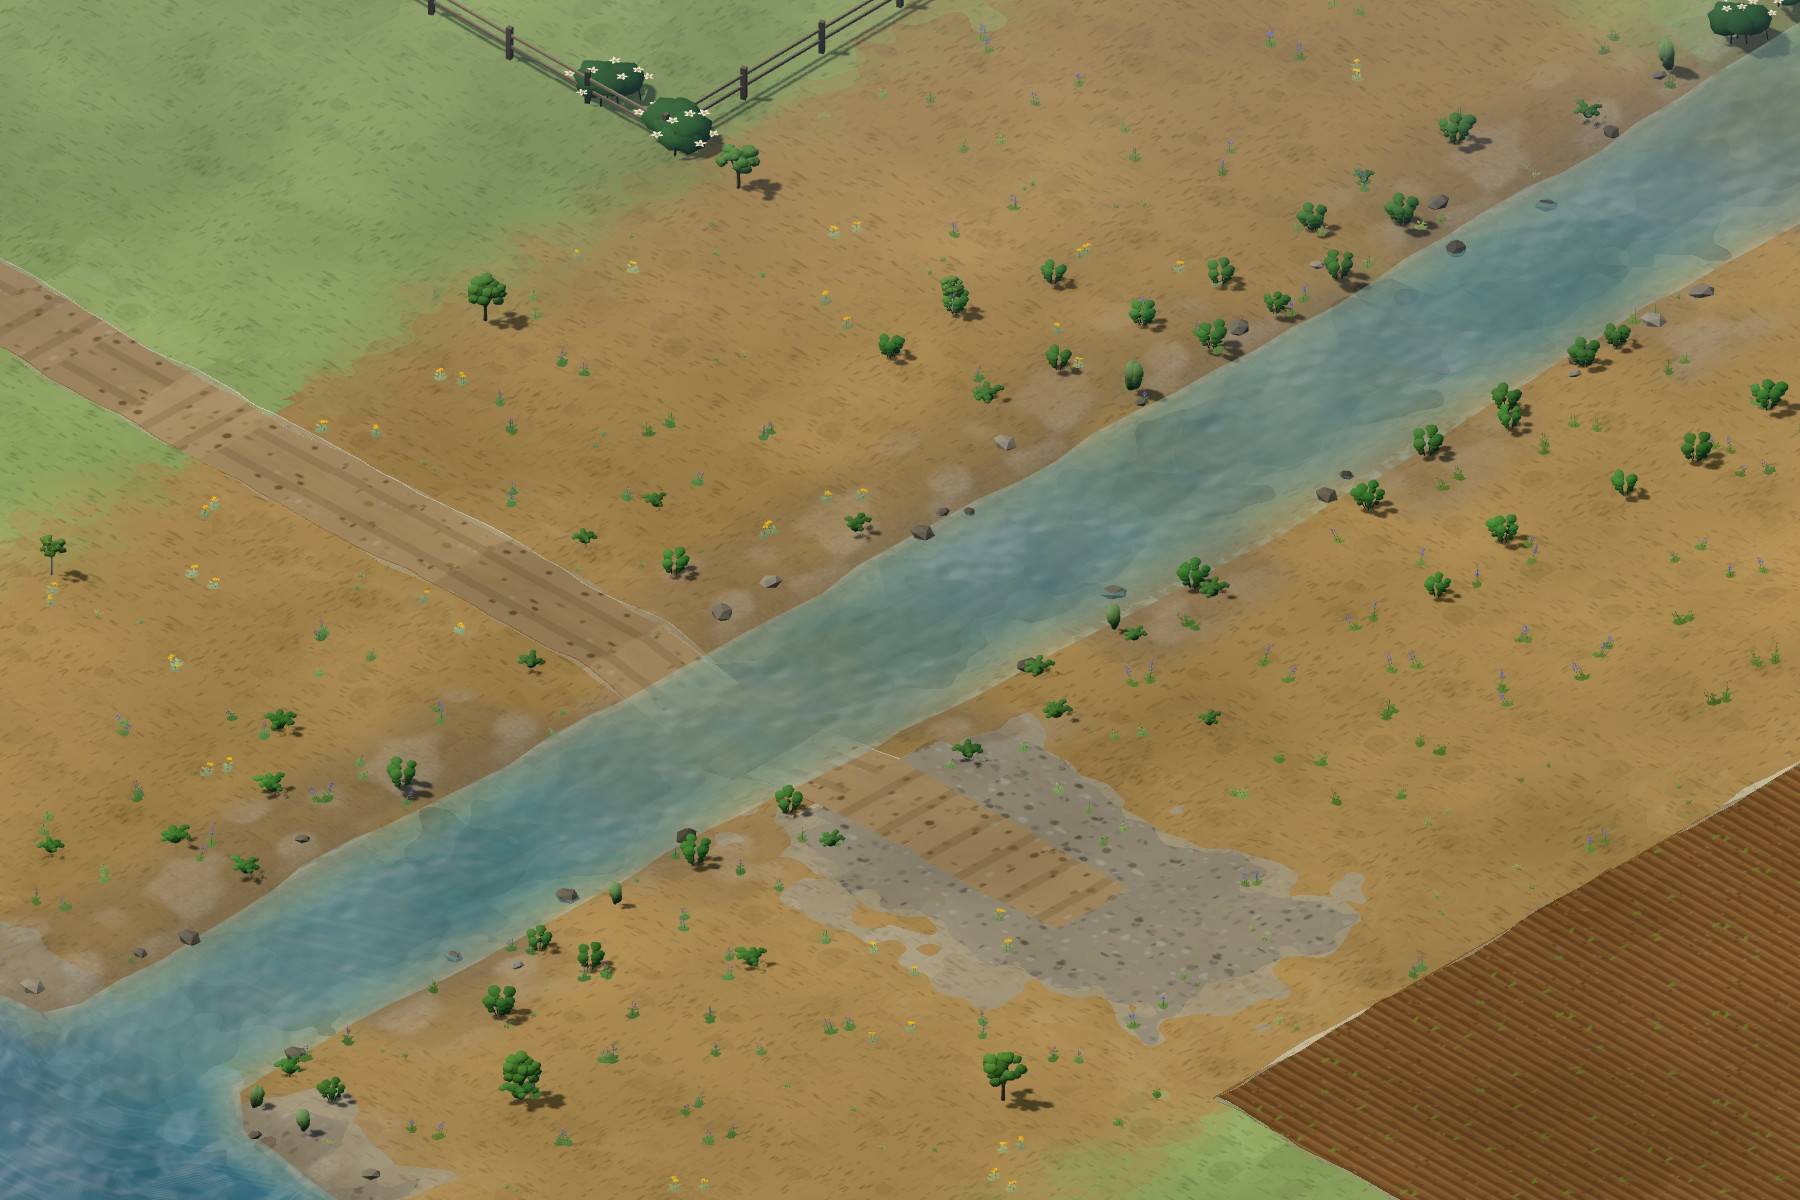
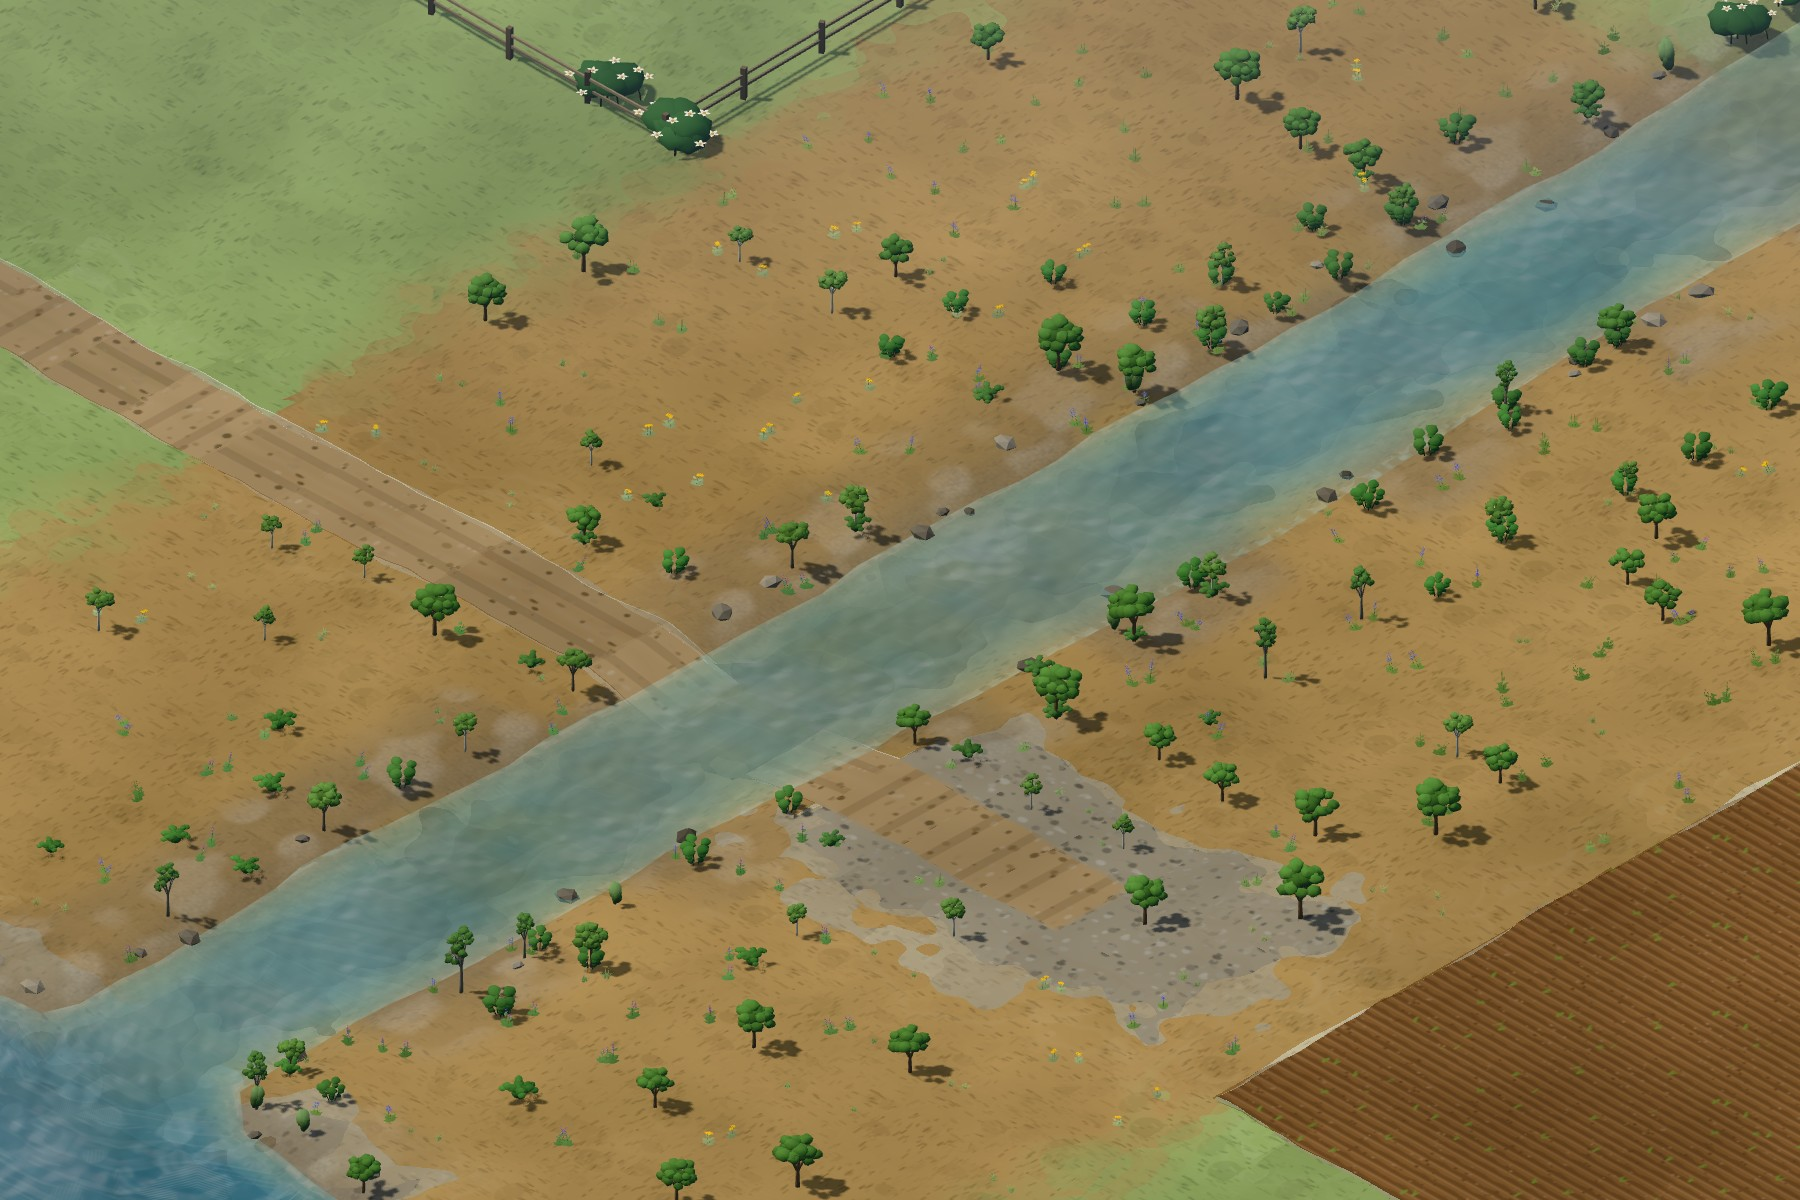
Website polish: readable type, creek before/after slider, fuller restored creek
- Raise the smallest text (labels, captions, footer) to a readable floor
- Slow drift on the hero image, sticky ecology heading, fade on image swaps
  (all off for prefers-reduced-motion)
- Replace the three-step creek picker with a before/after drag slider that
  also works from the keyboard; "before" loads eagerly so the slider never
  shows "after" on both sides
- Re-stage the creek sequence with a band of pioneer trees along both banks
  (82 trees instead of 8) from the same save; add --creek to
  capture-site-content.mjs to redo only those captures

diff --git a/website/index.html b/website/index.html
@@ -32,8 +32,8 @@
   <link rel="preconnect" href="https://fonts.googleapis.com">
   <link rel="preconnect" href="https://fonts.gstatic.com" crossorigin>
   <link href="https://fonts.googleapis.com/css2?family=Fraunces:opsz,wght@9..144,400;9..144,500;9..144,600&family=Nunito:wght@400;600;700;800&display=swap" rel="stylesheet">
-  <link rel="stylesheet" href="site.css?v=ecology-20261017c">
-  <script src="site.js?v=ecology-20261017c" defer></script>
+  <link rel="stylesheet" href="site.css?v=slider-20261017d">
+  <script src="site.js?v=slider-20261017d" defer></script>
 </head>
 <body class="home">
   <a class="skip" href="#hero-title">Skip to content</a>
@@ -69,13 +69,15 @@
       <div class="section-head"><div><p class="eyebrow">An example from the Pacific Northwest</p><h2 id="restoration-title">Reopening a salmon creek.</h2></div><p>One save, two game years apart. Pull out one<br> culvert and the whole creek changes.</p></div>
       <div class="restoration-layout">
         <figure class="sequence-figure">
-          <div class="sequence-view"><img id="sequence-image" src="review-media/creek-before.jpg" alt="The Pacific Northwest creek before intervention, with a culvert at the road crossing and exposed banks." width="1800" height="1200" loading="lazy" decoding="async"><span class="image-tag" id="sequence-label">Before · May, Year 1</span></div>
-          <div class="sequence-picker" role="group" aria-label="View the creek restoration sequence">
-            <button type="button" class="sequence-choice" aria-pressed="true" data-image="review-media/creek-before.jpg" data-alt="The Pacific Northwest creek before intervention, with a culvert at the road crossing and exposed banks." data-label="Before · May, Year 1" data-caption="The culvert blocks fish passage into the upper creek. The nearby banks have limited native vegetation."><img src="review-media/creek-before.jpg" alt="" width="1800" height="1200" loading="lazy"><span>01 / Before</span></button>
-            <button type="button" class="sequence-choice" aria-pressed="false" data-image="review-media/creek-planted.jpg" data-alt="The same creek after the culvert was removed and native shrubs, pioneer trees and meadow plants were planted along its banks." data-label="Restoration · The same day" data-caption="The culvert is removed. Invasives are pulled, soil is loosened and mulched, and native shrubs, pioneer trees and meadow plants are planted."><img src="review-media/creek-planted.jpg" alt="" width="1800" height="1200" loading="lazy"><span>02 / Restoration</span></button>
-            <button type="button" class="sequence-choice" aria-pressed="false" data-image="review-media/creek-later.jpg" data-alt="The same creek two game years later, with the planted streamside vegetation developing around the open crossing." data-label="Later · May, Year 3" data-caption="Two game years later, the planted vegetation has developed. The creek remains open to fish passage. No extra planting was done between these captures."><img src="review-media/creek-later.jpg" alt="" width="1800" height="1200" loading="lazy"><span>03 / Two years later</span></button>
+          <div class="compare" style="--pos:50%">
+            <img src="review-media/creek-later.jpg" alt="The same creek two game years later, with the planted streamside vegetation grown in around the open crossing." width="1800" height="1200" loading="lazy" decoding="async">
+            <img class="compare-before" src="review-media/creek-before.jpg" alt="The Pacific Northwest creek before restoration, with a culvert at the road crossing and bare banks." width="1800" height="1200" decoding="async">
+            <span class="image-tag compare-tag before">Before<span class="tag-date"> · May, Year 1</span></span>
+            <span class="image-tag compare-tag after">Two years later<span class="tag-date"> · May, Year 3</span></span>
+            <span class="compare-handle" aria-hidden="true"><span><svg viewBox="0 0 24 24" width="22" height="22"><path d="M9 6 3 12l6 6M15 6l6 6-6 6" fill="none" stroke="currentColor" stroke-width="2.4" stroke-linecap="round" stroke-linejoin="round"/></svg></span></span>
+            <input class="compare-range" type="range" min="0" max="100" step="1" value="50" aria-label="Compare the creek before restoration and two years later">
           </div>
-          <p class="sequence-description" id="sequence-description" aria-live="polite">The culvert blocks fish passage into the upper creek. The nearby banks have limited native vegetation.</p>
+          <p class="sequence-description">Drag to compare. Same save, same camera: the culvert is out and the shrubs and pioneer trees planted that May have grown in. Nothing else was planted in between.</p>
         </figure>
         <ol class="restoration-steps"><li><span class="step-index">01</span><div><h3>Find what's in the way.</h3><p>A culvert under the farm road stops salmon from reaching the upper creek. With no shade on the banks, the water isn't good enough for them to spawn.</p></div></li><li><span class="step-index">02</span><div><h3>Open it up and plant the banks.</h3><p>Tear out the culvert, clear the Himalayan blackberry, and plant native shrubs and trees along the water. Overlays show you fish passage, moisture and habitat as you work.</p></div></li><li><span class="step-index">03</span><div><h3>Give it time.</h3><p>The plantings grow in and shade the creek. Open passage alone won't bring coho back. They need the clean, shaded water too.</p></div></li></ol>
       </div>

diff --git a/website/site.js b/website/site.js
@@ -1,5 +1,8 @@
 // The static homepage switches fresh game captures and their captions.
 // It never imports the simulation or touches player saves.
+// A short fade when a picture changes, skipped for reduced motion.
+const calm = matchMedia('(prefers-reduced-motion: reduce)');
+const fadeIn = image => { if (!calm.matches && image.animate) image.animate([{ opacity: 0.35 }, { opacity: 1 }], { duration: 450, easing: 'ease' }); };
 const choices = [...document.querySelectorAll('.map-choice')];
 const fields = {
   name: document.querySelector('#map-name'),
@@ -14,6 +17,7 @@ for (const choice of choices) {
     for (const button of choices) button.setAttribute('aria-pressed', String(button === choice));
     for (const [key, element] of Object.entries(fields)) element.textContent = choice.dataset[key];
     mapImage.src = choice.dataset.image;
+    fadeIn(mapImage);
     mapImage.alt = choice.dataset.alt;
     mapImage.parentElement.dataset.momentLayout = choice.dataset.momentLayout;
     document.querySelector('#map-image-label').textContent = choice.dataset.name;
@@ -22,26 +26,50 @@ for (const choice of choices) {
     document.querySelector('.map-panel').dataset.landscape = choice.dataset.map;
   });
 }
-// Fetch the other landscape and creek images once the explorer nears the
+// Fetch the other landscape images once the explorer nears the
 // viewport (or on hover), so switching never shows an empty panel.
 const preloaded = new Set();
 const preload = src => { if (!preloaded.has(src)) { preloaded.add(src); new Image().src = src; } };
-const preloadAll = () => [...choices, ...document.querySelectorAll('.sequence-choice')].forEach(c => preload(c.dataset.image));
+const preloadAll = () => choices.forEach(c => preload(c.dataset.image));
 for (const choice of choices) choice.addEventListener('pointerenter', () => preload(choice.dataset.image));
 if ('IntersectionObserver' in window) {
   const observer = new IntersectionObserver(entries => {
     if (entries.some(entry => entry.isIntersecting)) { observer.disconnect(); preloadAll(); }
   }, { rootMargin: '600px 0px' });
-  for (const section of document.querySelectorAll('.restoration, .explorer')) observer.observe(section);
+  observer.observe(document.querySelector('.explorer'));
 } else preloadAll();
-const sequenceChoices = [...document.querySelectorAll('.sequence-choice')];
-const sequenceImage = document.querySelector('#sequence-image');
-for (const choice of sequenceChoices) {
-  choice.addEventListener('click', () => {
-    for (const button of sequenceChoices) button.setAttribute('aria-pressed', String(button === choice));
-    sequenceImage.src = choice.dataset.image;
-    sequenceImage.alt = choice.dataset.alt;
-    document.querySelector('#sequence-label').textContent = choice.dataset.label;
-    document.querySelector('#sequence-description').textContent = choice.dataset.caption;
-  });
+// Before/after creek slider. Pointer drag anywhere on the picture; the
+// range input underneath keeps it usable from the keyboard.
+const compare = document.querySelector('.compare');
+if (compare) {
+  const range = compare.querySelector('.compare-range');
+  const before = compare.querySelector('.compare-tag.before'), after = compare.querySelector('.compare-tag.after');
+  const set = value => {
+    const pos = Math.max(0, Math.min(100, value));
+    compare.style.setProperty('--pos', pos + '%'); range.value = Math.round(pos);
+    // Hide a label once its picture is mostly covered.
+    before.style.opacity = pos < 28 ? 0 : 1; after.style.opacity = pos > 72 ? 0 : 1;
+  };
+  const fromPointer = event => { const box = compare.getBoundingClientRect(); set((event.clientX - box.left) / box.width * 100); };
+  let dragging = false;
+  compare.addEventListener('pointerdown', event => { dragging = true; compare.setPointerCapture(event.pointerId); fromPointer(event); });
+  compare.addEventListener('pointermove', event => { if (dragging) fromPointer(event); });
+  for (const type of ['pointerup', 'pointercancel']) compare.addEventListener(type, () => { dragging = false; });
+  range.addEventListener('input', () => set(Number(range.value)));
+  // Once, when it first comes into view, sweep across to show it can be dragged.
+  if (!calm.matches && 'IntersectionObserver' in window) {
+    const hint = new IntersectionObserver(entries => {
+      if (!entries.some(entry => entry.intersectionRatio > 0.6)) return;
+      hint.disconnect();
+      const start = performance.now();
+      const step = now => {
+        if (dragging) return;
+        const t = Math.min(1, (now - start) / 1800);
+        set(50 + Math.sin(t * Math.PI * 2) * 30 * (1 - t));
+        if (t < 1) requestAnimationFrame(step);
+      };
+      requestAnimationFrame(step);
+    }, { threshold: 0.6 });
+    hint.observe(compare);
+  }
 }

diff --git a/website/site.css b/website/site.css
@@ -244,3 +244,77 @@
 @supports not ((backdrop-filter: blur(1px)) or (-webkit-backdrop-filter: blur(1px))) { .moment-bubble { background: #173e32f5; } }
 
 .capture-context{display:block;margin-top:10px;color:#c1cfb8;font-size:11px;line-height:1.8}
+
+/* Readability and motion polish: lift the smallest text to a readable floor,
+   keep the long ecology heading in view, and give the hero a slow drift. */
+.eyebrow { font-size: 11px; letter-spacing: 1.6px; }
+.home .hero .eyebrow, .moment-bubble .eyebrow, .map-information .eyebrow { font-size: 10px; }
+.site-nav { font-size: 13px; }
+.button.small { font-size: 13px; }
+.home .play-note { font-size: 12px; }
+.scene-caption>span { font-size: 12px; }
+.scene-caption p { font-size: 11px; }
+.hero-scroll { font-size: 13px; }
+.game-facts dt { font-size: 14px; }
+.game-facts dd { font-size: 13px; }
+.section-head>p { font-size: 15px; }
+.restoration-steps p { font-size: 14px; }
+.image-tag { font-size: 11px; }
+.sequence-choice>span { font-size: 11px; }
+.sequence-description { font-size: 14px; }
+.map-choice small { font-size: 10px; }
+.habitat { font-size: 13px; }
+.species-list dt { font-size: 11px; }
+.species-list dd { font-size: 13px; }
+.moment-bubble > p:last-child { font-size: 13px; }
+.section-note, figcaption { font-size: 12px; }
+.topic-label { font-size: 11px; }
+.ecology-topics summary { font-size: 12px; }
+.ecology-topics details p, .model-note p, .credits p { font-size: 13px; }
+.ecology-gallery figcaption span { font-size: 12px; }
+.project-links a { font-size: 13px; }
+.closing p:last-child { font-size: 14px; }
+.footer nav { font-size: 12px; }
+.footer>span { font-size: 11px; }
+.ecology-heading { position: sticky; top: 40px; }
+.ecology-gallery img { transition: transform .4s ease; }
+.ecology-gallery figure:hover img { transform: translateY(-4px); }
+.hero-backdrop img { animation: sg-drift 40s ease-in-out infinite alternate; transform-origin: 60% 55%; }
+@keyframes sg-drift { from { transform: scale(1); } to { transform: scale(1.06) translate(-1%, -1%); } }
+@media (max-width: 720px) {
+  .eyebrow { font-size: 10px; letter-spacing: 1.3px; }
+  .home .hero .eyebrow, .moment-bubble .eyebrow, .map-information .eyebrow { font-size: 9px; }
+  .home .site-nav { font-size: 12px; }
+  .home .hero .intro { font-size: 15px; }
+  .home .play-note { font-size: 11px; }
+  .hero-scroll { font-size: 11px; }
+  .game-facts dd { font-size: 12px; }
+  .home .map-choice small { font-size: 9px; letter-spacing: .4px; }
+  .image-tag, .sequence-choice>span { font-size: 10px; }
+  .section-note, figcaption { font-size: 11px; }
+  .footer nav { font-size: 11px; }
+  .ecology-heading { position: static; }
+}
+@media (prefers-reduced-motion: reduce) {
+  .hero-backdrop img { animation: none; }
+}
+
+/* Before/after creek slider. --pos is how much of the "before" image shows. */
+.compare { position: relative; overflow: hidden; border-radius: 23px; background: #294c3c; touch-action: pan-y; cursor: ew-resize; user-select: none; -webkit-user-select: none; }
+.compare > img { display: block; width: 100%; height: auto; aspect-ratio: 3/2; object-fit: cover; pointer-events: none; -webkit-user-drag: none; }
+.compare > .compare-before { position: absolute; inset: 0; height: 100%; clip-path: inset(0 calc(100% - var(--pos)) 0 0); }
+.compare-handle { position: absolute; top: 0; bottom: 0; left: var(--pos); width: 2px; margin-left: -1px; background: #fff2d7; box-shadow: 0 0 12px #0a281966; pointer-events: none; }
+.compare-handle > span { position: absolute; top: 50%; left: 50%; display: grid; place-items: center; width: 46px; height: 46px; margin: -23px 0 0 -23px; border-radius: 50%; background: #edb58e; color: #17392b; box-shadow: 0 4px 16px #0a28194d; }
+.compare-tag { bottom: auto; top: 17px; pointer-events: none; transition: opacity .2s; }
+.compare-tag.before { left: 17px; }
+.compare-tag.after { left: auto; right: 17px; }
+.compare-range { position: absolute; inset: 0; width: 100%; height: 100%; margin: 0; opacity: 0; pointer-events: none; }
+.compare:has(.compare-range:focus-visible) .compare-handle > span { outline: 3px solid var(--ochre); outline-offset: 4px; }
+@media (max-width: 720px) {
+  .compare { border-radius: 21px 29px 21px 21px; }
+  .compare-tag { top: 12px; }
+  .compare-tag.before { left: 12px; }
+  .compare-tag.after { right: 12px; }
+  .tag-date { display: none; }
+  .compare-handle > span { width: 40px; height: 40px; margin: -20px 0 0 -20px; }
+}
